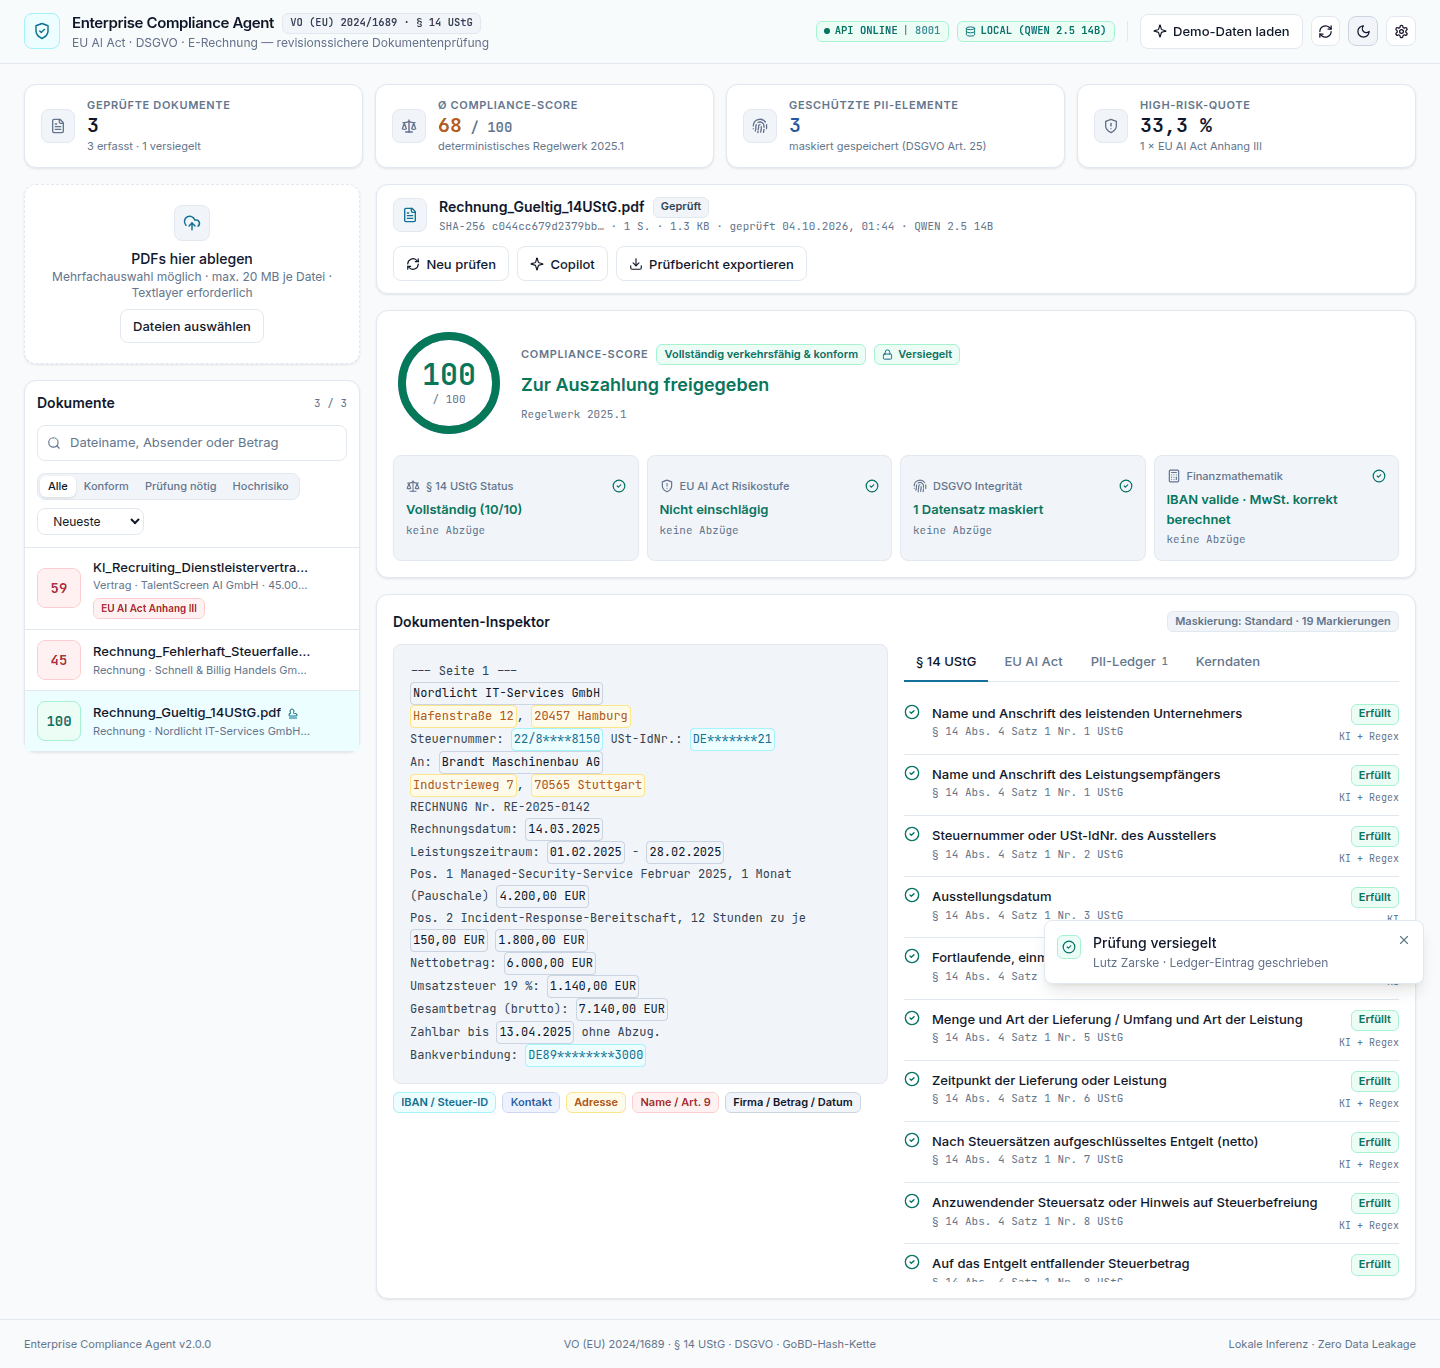
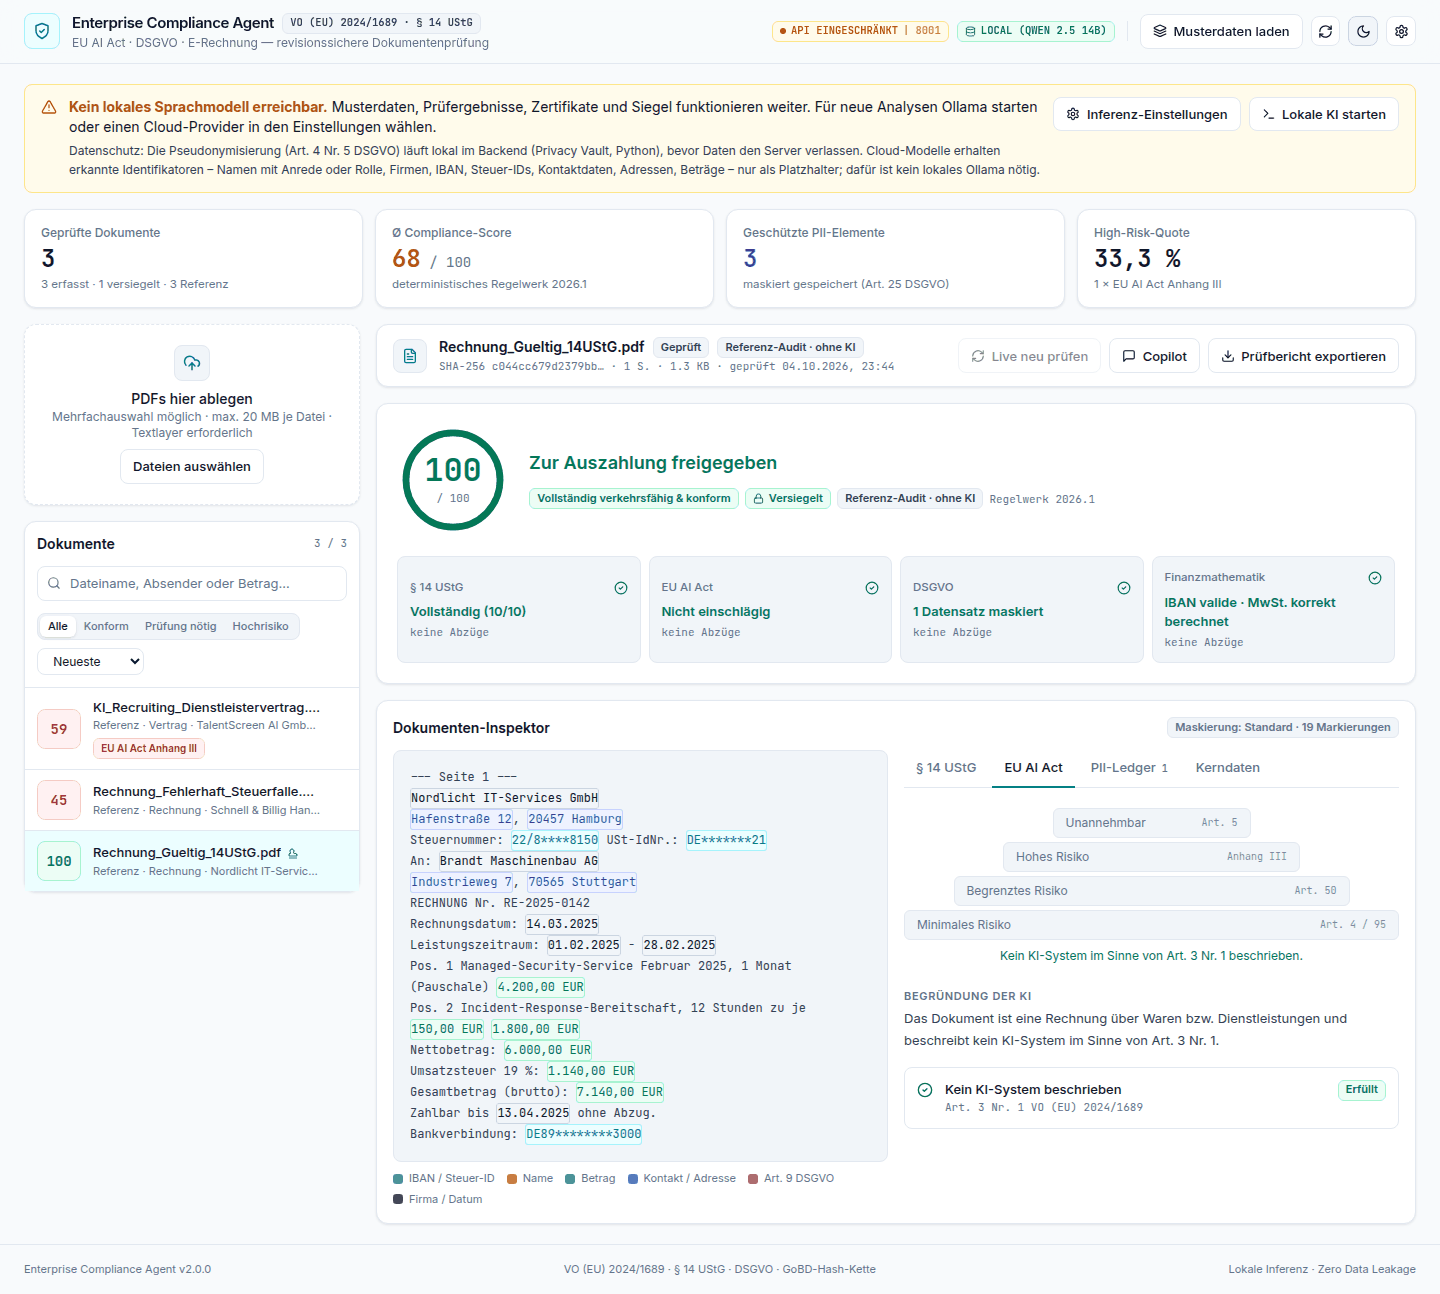
docs: Ein-Klick-Start, Rechtsnormen-Tabelle, neue Screenshots; Musterantwort-Formulierung
- Start_Compliance_Agent.bat: legt venv an, installiert Abhaengigkeiten,
  startet Backend (:8001), Frontend (:3001) und ggf. Ollama, oeffnet den Browser
- README: Screenshots und Ein-Klick-Start oben, Tabelle der Rechtsnormen mit
  Stand (VO (EU) 2026/1744, BMF-Schreiben, BEG IV), Musterdaten, 171 Tests,
  Grenzen um XML-Vorrang und Art. 6 Abs. 3 ergaenzt
- Screenshots neu aufgenommen: Ergebnisse aus Musterdaten ohne Modell, nur der
  Live-Stepper mit gekennzeichnetem Ollama-Stub

diff --git a/app/demo.py b/app/demo.py
@@ -353,7 +353,7 @@ REFERENCE_ANSWERS: dict[str, tuple[str, str, str]] = {
         "Folgen für den Käufer als Betreiber (Art. 26): menschliche Aufsicht, Logs mindestens sechs Monate "
         "aufbewahren, Beschäftigtenvertretung vorab informieren. Vom Anbieter sind Konformitätsbewertung "
         "(Art. 43) und CE-Kennzeichnung (Art. 48) nachzuweisen; im Vertrag fehlt dazu jeder Hinweis. "
-        "Die Hochrisiko-Pflichten nach Anhang III gelten seit der Änderung durch VO (EU) 2026/1744 ab dem 02.12.2027.",
+        "Nach der Änderung durch VO (EU) 2026/1744 gelten die Hochrisiko-Pflichten für Anhang III ab dem 02.12.2027.",
         "Das Dokument ist keine Rechnung, ein Vorsteuerabzug stützt sich erst auf die spätere Rechnung. Diese "
         "muss alle Angaben nach § 14 Abs. 4 UStG enthalten, insbesondere Rechnungsnummer, Ausstellungsdatum, "
         "Steuernummer bzw. USt-IdNr., Leistungszeitraum sowie Nettoentgelt, Steuersatz und Steuerbetrag "
